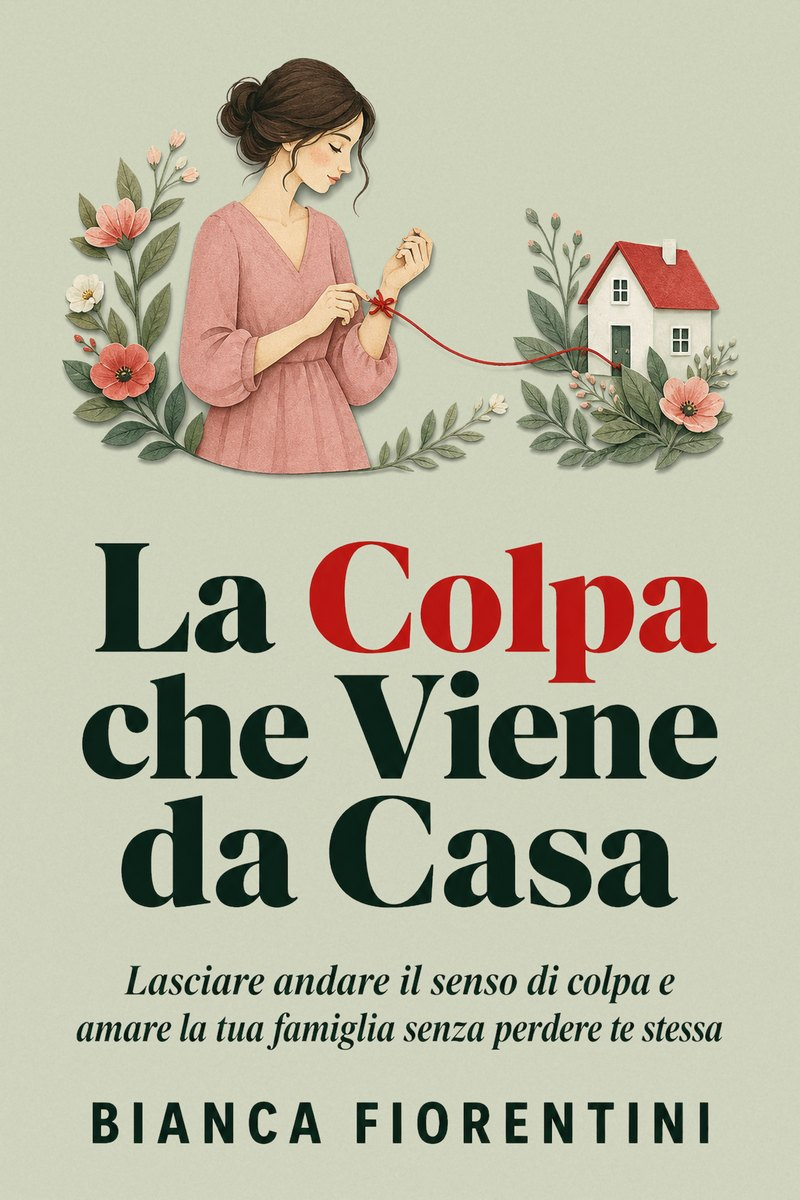
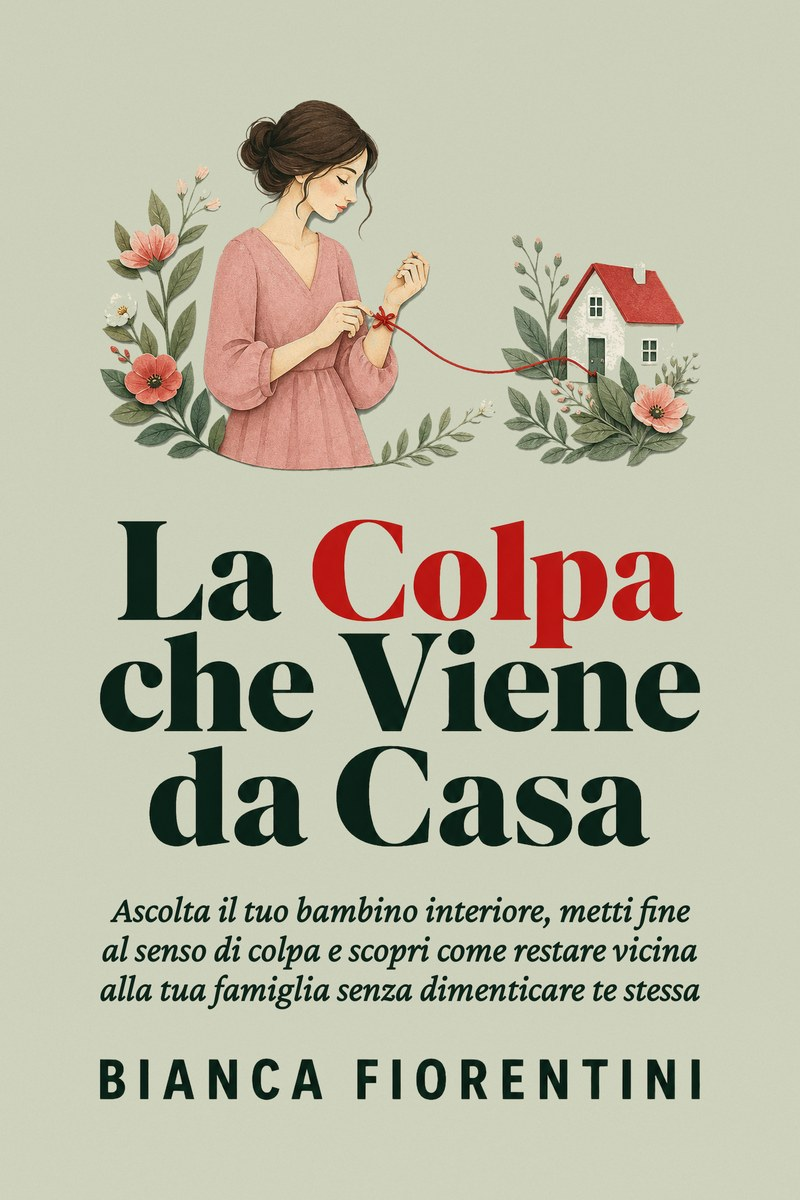
Add files via upload

Changed region(s): [[0.0938, 0.4317, 0.9062, 0.9558], [0.0625, 0.0308, 0.9375, 0.4008]]

diff --git a/landing/index.html b/landing/index.html
@@ -109,6 +109,19 @@ input[aria-invalid=true]{border-color:var(--red);box-shadow:0 0 0 4px rgba(184,2
 .steps{margin:0;padding:0;list-style:none;counter-reset:s}
 .steps li{counter-increment:s;display:grid;grid-template-columns:30px 1fr;gap:12px;margin:0 0 12px;font-size:16px;color:var(--text)}
 .steps li:before{content:counter(s);width:28px;height:28px;border-radius:50%;background:var(--red);color:#fff;display:grid;place-items:center;font:700 13px 'Outfit',sans-serif;margin-top:2px}
+.phone{margin:18px 0 20px}
+.ph-t{font:700 12.5px 'Outfit',sans-serif;letter-spacing:.12em;text-transform:uppercase;color:var(--red);margin:0 0 8px}
+.ph-how{font-size:15.5px;color:var(--text);margin:0 0 12px;background:var(--green-bg);border-radius:12px;padding:12px 14px}
+.tel{border:1px solid var(--line);border-radius:14px;margin:0 0 10px;background:#fff;padding:0;max-width:none}
+.tel summary{cursor:pointer;list-style:none;display:flex;justify-content:space-between;align-items:center;gap:10px;padding:14px 16px;font:600 16.5px 'Lora',serif;color:var(--ink)}
+.tel summary::-webkit-details-marker{display:none}
+.tel summary small{font:600 13px 'Outfit',sans-serif;color:var(--soft);white-space:nowrap}
+.tel summary:after{content:'+';font:700 20px 'Outfit',sans-serif;color:var(--red)}
+.tel[open] summary:after{content:'–'}
+.gal{display:grid;grid-template-columns:repeat(2,1fr);gap:12px;padding:0 14px 14px}
+.gal figure{margin:0}
+.gal img{display:block;width:100%;height:auto;aspect-ratio:9/16;border-radius:10px;background:var(--green-bg);box-shadow:0 1px 4px rgba(0,0,0,.12);-webkit-touch-callout:default}
+.gal figcaption{font-size:13px;line-height:1.3;color:var(--soft);margin-top:6px}
 .sign{margin:18px 0 0;padding-top:16px;border-top:1px dashed var(--line);font-size:15.5px;color:var(--soft)}
 .sign b{font:italic 600 17px 'Lora',serif;color:var(--ink)}
 
@@ -218,15 +231,17 @@ details p{margin:12px 0 0}
         <div class="done-ico" aria-hidden="true"><svg width="28" height="28" viewBox="0 0 28 28"><path d="M6 14.5l5 5 11-12" stroke="#0a2217" stroke-width="2.6" fill="none" stroke-linecap="round" stroke-linejoin="round"/></svg></div>
         <p class="kicker">Eccoli</p>
         <h2 id="done-title">Sono tuoi</h2>
-        <p class="sub" style="margin-top:10px">Si aprono in una cartella Google Drive: dentro trovi le schede e le frasi, ciascuna in PDF da stampare e in immagini per il telefono.</p>
-        <a class="btn dark" id="open" href="#" target="_blank" rel="noopener">Apri la cartella dei bonus</a>
+        <p class="sub" style="margin-top:10px">Qui sotto trovi le immagini da tenere sul telefono. I PDF da stampare sono nella cartella Google Drive.</p>
+        <div class="phone"><p class="ph-t">Da salvare sul telefono</p><p class="ph-how"><b>Tieni il dito sull'immagine</b> e scegli «Salva immagine» (iPhone) oppure «Scarica immagine» (Android). La ritrovi nella galleria delle foto.</p><details class="tel"><summary><span>Le frasi pronte per casa</span><small>11 immagini</small></summary><div class="gal"><figure><a href="telefono/frasi/00_Copertina.jpg" download="00_Copertina.jpg"><img data-src="telefono/frasi/00_Copertina.jpg" alt="Copertina" width="1080" height="1920"></a><figcaption>Copertina</figcaption></figure><figure><a href="telefono/frasi/Frasi_01_Prendere_tempo.jpg" download="Frasi_01_Prendere_tempo.jpg"><img data-src="telefono/frasi/Frasi_01_Prendere_tempo.jpg" alt="Prendere tempo" width="1080" height="1920"></a><figcaption>Prendere tempo</figcaption></figure><figure><a href="telefono/frasi/Frasi_02_Telefonate_e_visite.jpg" download="Frasi_02_Telefonate_e_visite.jpg"><img data-src="telefono/frasi/Frasi_02_Telefonate_e_visite.jpg" alt="Telefonate e visite" width="1080" height="1920"></a><figcaption>Telefonate e visite</figcaption></figure><figure><a href="telefono/frasi/Frasi_03_Pranzi_e_feste.jpg" download="Frasi_03_Pranzi_e_feste.jpg"><img data-src="telefono/frasi/Frasi_03_Pranzi_e_feste.jpg" alt="Pranzi e feste" width="1080" height="1920"></a><figcaption>Pranzi e feste</figcaption></figure><figure><a href="telefono/frasi/Frasi_04_Ricatti_affettivi.jpg" download="Frasi_04_Ricatti_affettivi.jpg"><img data-src="telefono/frasi/Frasi_04_Ricatti_affettivi.jpg" alt="Ricatti affettivi" width="1080" height="1920"></a><figcaption>Ricatti affettivi</figcaption></figure><figure><a href="telefono/frasi/Frasi_05_Fratelli_e_sorelle.jpg" download="Frasi_05_Fratelli_e_sorelle.jpg"><img data-src="telefono/frasi/Frasi_05_Fratelli_e_sorelle.jpg" alt="Fratelli e sorelle" width="1080" height="1920"></a><figcaption>Fratelli e sorelle</figcaption></figure><figure><a href="telefono/frasi/Frasi_06_Genitori_che_invecchiano.jpg" download="Frasi_06_Genitori_che_invecchiano.jpg"><img data-src="telefono/frasi/Frasi_06_Genitori_che_invecchiano.jpg" alt="Genitori che invecchiano" width="1080" height="1920"></a><figcaption>Genitori che invecchiano</figcaption></figure><figure><a href="telefono/frasi/Frasi_07_Soldi.jpg" download="Frasi_07_Soldi.jpg"><img data-src="telefono/frasi/Frasi_07_Soldi.jpg" alt="Soldi" width="1080" height="1920"></a><figcaption>Soldi</figcaption></figure><figure><a href="telefono/frasi/Frasi_08_Nonni_e_figli.jpg" download="Frasi_08_Nonni_e_figli.jpg"><img data-src="telefono/frasi/Frasi_08_Nonni_e_figli.jpg" alt="Nonni e figli" width="1080" height="1920"></a><figcaption>Nonni e figli</figcaption></figure><figure><a href="telefono/frasi/Frasi_09_Il_carico_in_casa.jpg" download="Frasi_09_Il_carico_in_casa.jpg"><img data-src="telefono/frasi/Frasi_09_Il_carico_in_casa.jpg" alt="Il carico in casa" width="1080" height="1920"></a><figcaption>Il carico in casa</figcaption></figure><figure><a href="telefono/frasi/Frasi_10_A_te_stessa.jpg" download="Frasi_10_A_te_stessa.jpg"><img data-src="telefono/frasi/Frasi_10_A_te_stessa.jpg" alt="A te stessa" width="1080" height="1920"></a><figcaption>A te stessa</figcaption></figure></div></details><details class="tel"><summary><span>Le schede degli esercizi</span><small>15 immagini</small></summary><div class="gal"><figure><a href="telefono/schede/00_Copertina.jpg" download="00_Copertina.jpg"><img data-src="telefono/schede/00_Copertina.jpg" alt="Copertina" width="1080" height="1920"></a><figcaption>Copertina</figcaption></figure><figure><a href="telefono/schede/Scheda_01_La_mappa_dei_si_della_settimana.jpg" download="Scheda_01_La_mappa_dei_si_della_settimana.jpg"><img data-src="telefono/schede/Scheda_01_La_mappa_dei_si_della_settimana.jpg" alt="Scheda 1 · La mappa dei sì della settimana" width="1080" height="1920"></a><figcaption>Scheda 1 · La mappa dei sì della settimana</figcaption></figure><figure><a href="telefono/schede/Scheda_02_Il_ruolo_che_mi_hanno_dato.jpg" download="Scheda_02_Il_ruolo_che_mi_hanno_dato.jpg"><img data-src="telefono/schede/Scheda_02_Il_ruolo_che_mi_hanno_dato.jpg" alt="Scheda 2 · Il ruolo che mi hanno dato" width="1080" height="1920"></a><figcaption>Scheda 2 · Il ruolo che mi hanno dato</figcaption></figure><figure><a href="telefono/schede/Scheda_03_Novanta_secondi_prima_di_rispondere.jpg" download="Scheda_03_Novanta_secondi_prima_di_rispondere.jpg"><img data-src="telefono/schede/Scheda_03_Novanta_secondi_prima_di_rispondere.jpg" alt="Scheda 3 · Novanta secondi prima di rispondere" width="1080" height="1920"></a><figcaption>Scheda 3 · Novanta secondi prima di rispondere</figcaption></figure><figure><a href="telefono/schede/Scheda_04_La_mappa_dei_bisogni.jpg" download="Scheda_04_La_mappa_dei_bisogni.jpg"><img data-src="telefono/schede/Scheda_04_La_mappa_dei_bisogni.jpg" alt="Scheda 4 · La mappa dei bisogni" width="1080" height="1920"></a><figcaption>Scheda 4 · La mappa dei bisogni</figcaption></figure><figure><a href="telefono/schede/Scheda_05_Il_tribunale_della_colpa.jpg" download="Scheda_05_Il_tribunale_della_colpa.jpg"><img data-src="telefono/schede/Scheda_05_Il_tribunale_della_colpa.jpg" alt="Scheda 5 · Il tribunale della colpa" width="1080" height="1920"></a><figcaption>Scheda 5 · Il tribunale della colpa</figcaption></figure><figure><a href="telefono/schede/Scheda_06_Riscrivere_una_convinzione.jpg" download="Scheda_06_Riscrivere_una_convinzione.jpg"><img data-src="telefono/schede/Scheda_06_Riscrivere_una_convinzione.jpg" alt="Scheda 6 · Riscrivere una convinzione" width="1080" height="1920"></a><figcaption>Scheda 6 · Riscrivere una convinzione</figcaption></figure><figure><a href="telefono/schede/Scheda_07_La_lettera_che_non_spedirai.jpg" download="Scheda_07_La_lettera_che_non_spedirai.jpg"><img data-src="telefono/schede/Scheda_07_La_lettera_che_non_spedirai.jpg" alt="Scheda 7 · La lettera che non spedirai" width="1080" height="1920"></a><figcaption>Scheda 7 · La lettera che non spedirai</figcaption></figure><figure><a href="telefono/schede/Scheda_08_La_risposta_in_tre_parti.jpg" download="Scheda_08_La_risposta_in_tre_parti.jpg"><img data-src="telefono/schede/Scheda_08_La_risposta_in_tre_parti.jpg" alt="Scheda 8 · La risposta in tre parti" width="1080" height="1920"></a><figcaption>Scheda 8 · La risposta in tre parti</figcaption></figure><figure><a href="telefono/schede/Scheda_09_Il_primo_gradino.jpg" download="Scheda_09_Il_primo_gradino.jpg"><img data-src="telefono/schede/Scheda_09_Il_primo_gradino.jpg" alt="Scheda 9 · Il primo gradino" width="1080" height="1920"></a><figcaption>Scheda 9 · Il primo gradino</figcaption></figure><figure><a href="telefono/schede/Scheda_10_I_dieci_minuti_dopo_il_no.jpg" download="Scheda_10_I_dieci_minuti_dopo_il_no.jpg"><img data-src="telefono/schede/Scheda_10_I_dieci_minuti_dopo_il_no.jpg" alt="Scheda 10 · I dieci minuti dopo il no" width="1080" height="1920"></a><figcaption>Scheda 10 · I dieci minuti dopo il no</figcaption></figure><figure><a href="telefono/schede/Scheda_11_L_inventario_del_carico.jpg" download="Scheda_11_L_inventario_del_carico.jpg"><img data-src="telefono/schede/Scheda_11_L_inventario_del_carico.jpg" alt="Scheda 11 · L&#x27;inventario del carico" width="1080" height="1920"></a><figcaption>Scheda 11 · L&#x27;inventario del carico</figcaption></figure><figure><a href="telefono/schede/Scheda_12_La_mappa_della_cura.jpg" download="Scheda_12_La_mappa_della_cura.jpg"><img data-src="telefono/schede/Scheda_12_La_mappa_della_cura.jpg" alt="Scheda 12 · La mappa della cura" width="1080" height="1920"></a><figcaption>Scheda 12 · La mappa della cura</figcaption></figure><figure><a href="telefono/schede/Scheda_13_La_lista_dei_piccoli_desideri.jpg" download="Scheda_13_La_lista_dei_piccoli_desideri.jpg"><img data-src="telefono/schede/Scheda_13_La_lista_dei_piccoli_desideri.jpg" alt="Scheda 13 · La lista dei piccoli desideri" width="1080" height="1920"></a><figcaption>Scheda 13 · La lista dei piccoli desideri</figcaption></figure><figure><a href="telefono/schede/Scheda_14_Il_diario_dei_passi.jpg" download="Scheda_14_Il_diario_dei_passi.jpg"><img data-src="telefono/schede/Scheda_14_Il_diario_dei_passi.jpg" alt="Scheda 14 · Il diario dei passi" width="1080" height="1920"></a><figcaption>Scheda 14 · Il diario dei passi</figcaption></figure></div></details></div>
+        <p class="ph-t">Da stampare</p>
+        <a class="btn dark" id="open" href="#" target="_blank" rel="noopener">Apri i PDF da stampare</a>
         <a class="url" id="url" href="#" target="_blank" rel="noopener"></a>
         <ol class="steps">
           <li>Stampa la prima scheda, «La mappa dei sì della settimana», e tienila vicino al libro.</li>
           <li>Salva le immagini delle frasi nella galleria del telefono: le ritrovi quando una richiesta ti prende alla sprovvista.</li>
           <li>Ricorda che non devi fare tutto. Una scheda alla settimana basta.</li>
         </ol>
-        <p class="sign">Salva questa pagina: il link resta valido. Se il libro ti sta facendo compagnia, una recensione sincera su Amazon aiuta un'altra donna a trovarlo, solo se e quando ti va.<br><b>Un abbraccio, Bianca</b></p>
+        <p class="sign">Salva questa pagina: il link resta valido e puoi tornare a scaricare i bonus quando vuoi.<br><b>Un abbraccio, Bianca</b></p>
       </div>
     </aside>
 
@@ -280,6 +295,14 @@ details p{margin:12px 0 0}
     if (saved && saved.url) done(saved.nome, saved.url);
   } catch (e) {}
 
+
+  // Le immagini per il telefono si caricano solo quando si apre l'elenco.
+  Array.prototype.forEach.call(document.querySelectorAll('details.tel'), function (d) {
+    d.addEventListener('toggle', function () {
+      if (!d.open) return;
+      Array.prototype.forEach.call(d.querySelectorAll('img[data-src]'), function (im) { im.src = im.getAttribute('data-src'); im.removeAttribute('data-src'); });
+    });
+  });
   $('open-privacy').addEventListener('click', function () { $('informativa').open = true; });
 
   fetch('/api/info').then(function (r) { return r.json(); }).then(function (d) {
